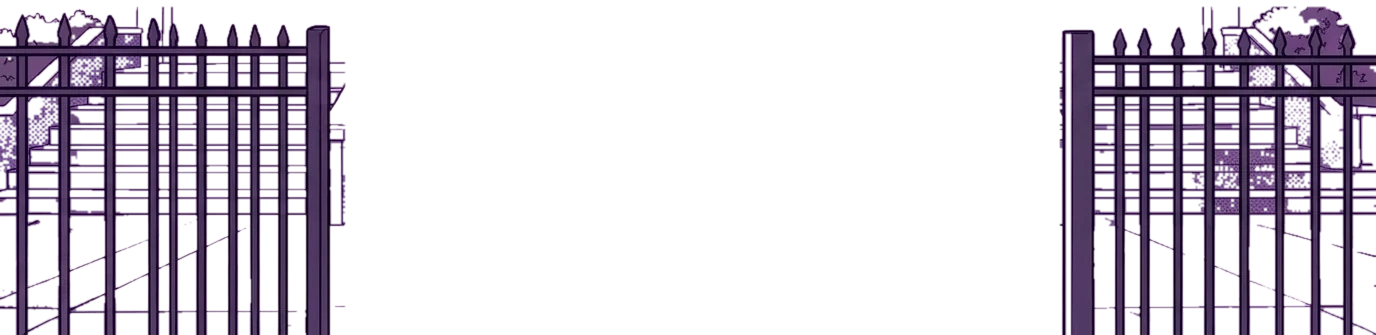
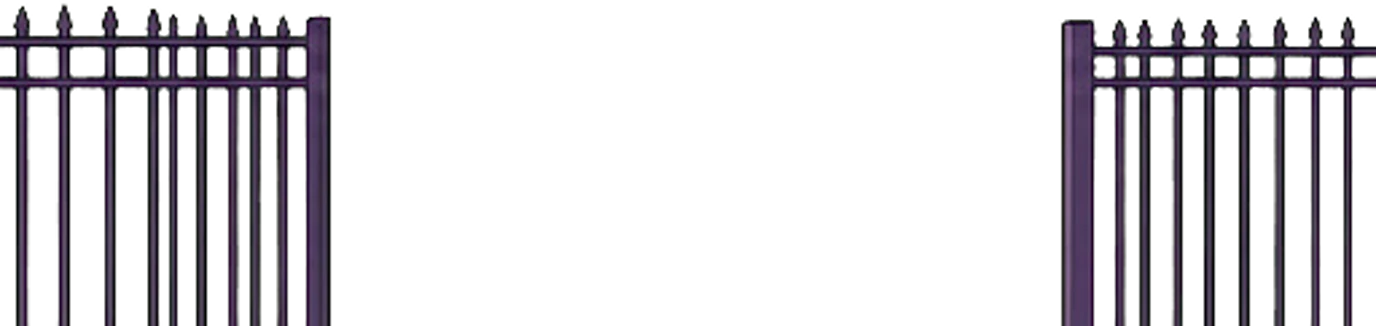
Cenário: novas camadas geradas (fundo limpo, palmeiras, árvore, placa, grade) com chroma key (#58)
Claude-Session: https://claude.ai/code/session_01U48bm5Z4vR1opWpFs2CVT1

Changed region(s): [[0.0, 0.0, 0.25, 1.0], [0.75, 0.0, 1.0, 1.0]]

diff --git a/brasilis/index.html b/brasilis/index.html
@@ -101,11 +101,11 @@
     <filter id="vento2" x="0" y="0" width="100%" height="100%"><feTurbulence type="fractalNoise" baseFrequency="0.013 0.02" numOctaves="2" seed="9" result="n"><animate attributeName="baseFrequency" dur="11s" values="0.013 0.02;0.019 0.026;0.013 0.02" repeatCount="indefinite"/></feTurbulence><feDisplacementMap in="SourceGraphic" in2="n" scale="10" xChannelSelector="R" yChannelSelector="G"/></filter>
   </svg>
   <div id="bg" role="img" aria-label="Fachada da escola Brasilis">
-    <div class="layer bgl" data-depth="0.2"><img class="full" src="assets/cenario/camadas/fundo.webp" alt="" draggable="false">
-      <img class="sway palm" src="assets/cenario/camadas/palmeiras.webp" alt="" draggable="false" style="left:0%;top:12.76%;width:23.401%">
-      <img class="sway tree" src="assets/cenario/camadas/arvore.webp" alt="" draggable="false" style="left:75.654%;top:0%;width:24.346%"></div>
-    <div class="layer bgl" data-depth="0.4"><img src="assets/cenario/camadas/placa.webp" alt="" draggable="false" style="left:26.526%;top:1.953%;width:48.11%"></div>
-    <div class="layer bgl" data-depth="0.7"><img src="assets/cenario/camadas/grade.webp" alt="" draggable="false" style="left:0%;top:56.38%;width:100%"></div>
+    <div class="layer bgl" data-depth="0.2"><img class="full" src="assets/cenario/camadas/fundo.webp?v=2" alt="" draggable="false"></div>
+    <div class="layer bgl" data-depth="0.32"><img class="sway palm" src="assets/cenario/camadas/palmeiras.webp?v=2" alt="" draggable="false" style="left:0%;top:4.688%;width:22.965%"></div>
+    <div class="layer bgl" data-depth="0.32"><img class="sway tree" src="assets/cenario/camadas/arvore.webp?v=2" alt="" draggable="false" style="left:77.253%;top:0%;width:22.747%"></div>
+    <div class="layer bgl" data-depth="0.42"><img src="assets/cenario/camadas/placa.webp?v=2" alt="" draggable="false" style="left:26.962%;top:2.474%;width:47.238%"></div>
+    <div class="layer bgl" data-depth="0.7"><img src="assets/cenario/camadas/grade.webp?v=2" alt="" draggable="false" style="left:0%;top:57.552%;width:100%"></div>
   </div>
   <div class="layer" id="ground" data-depth="0.1"></div>
   <div id="chars"></div>
